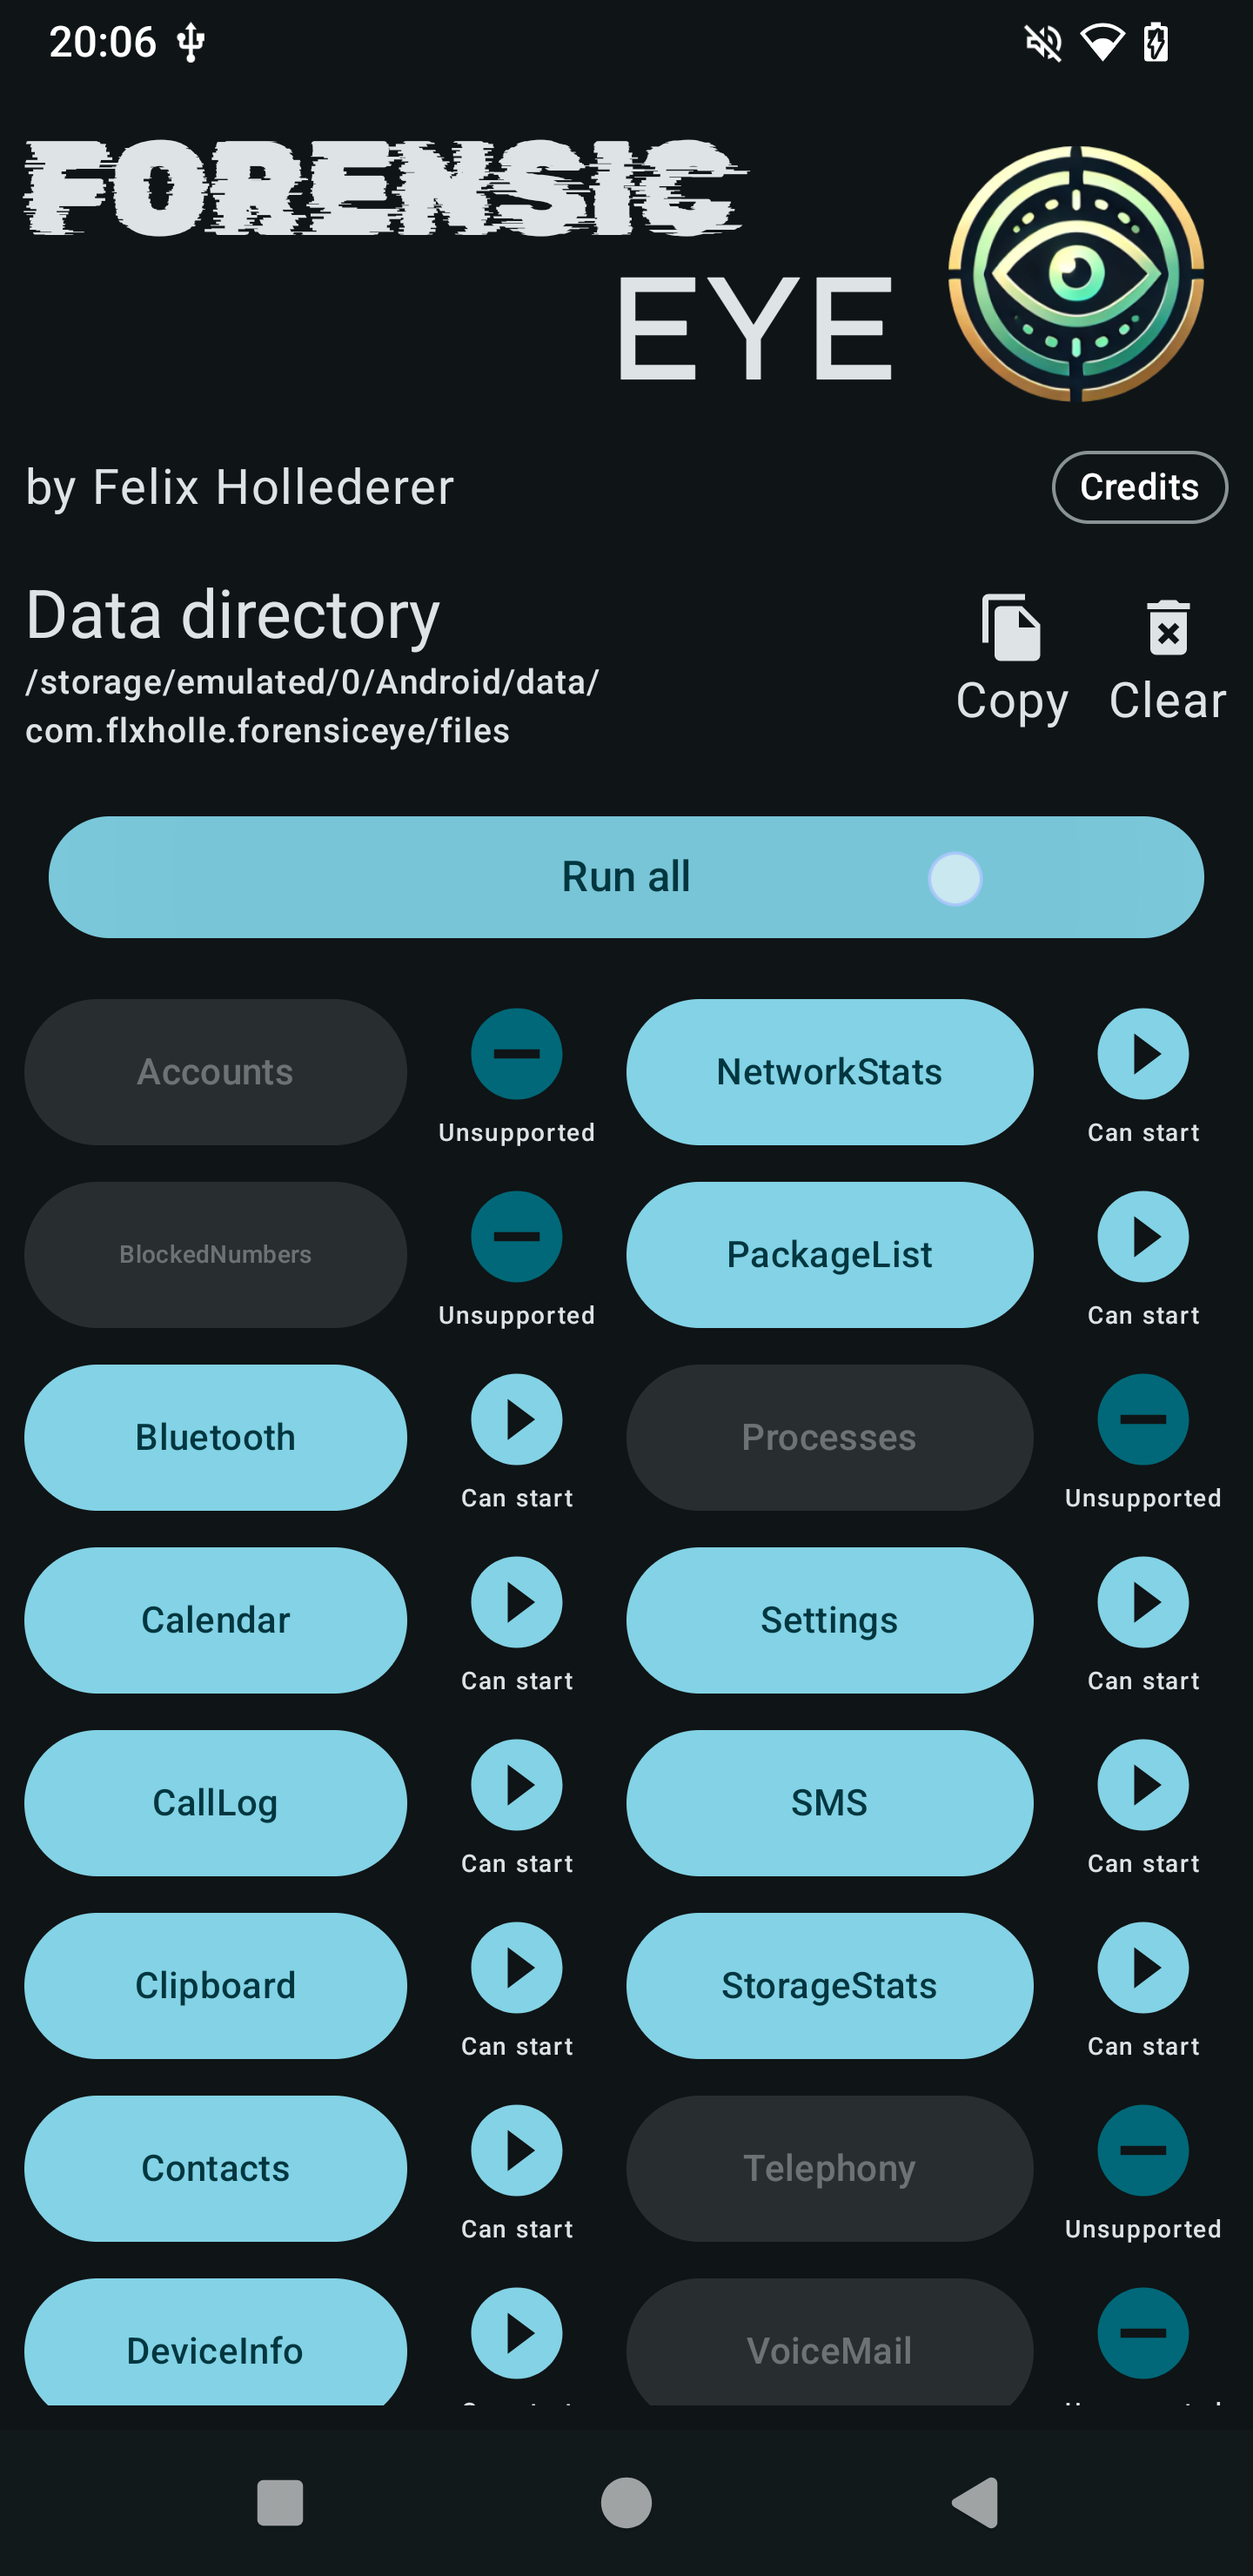
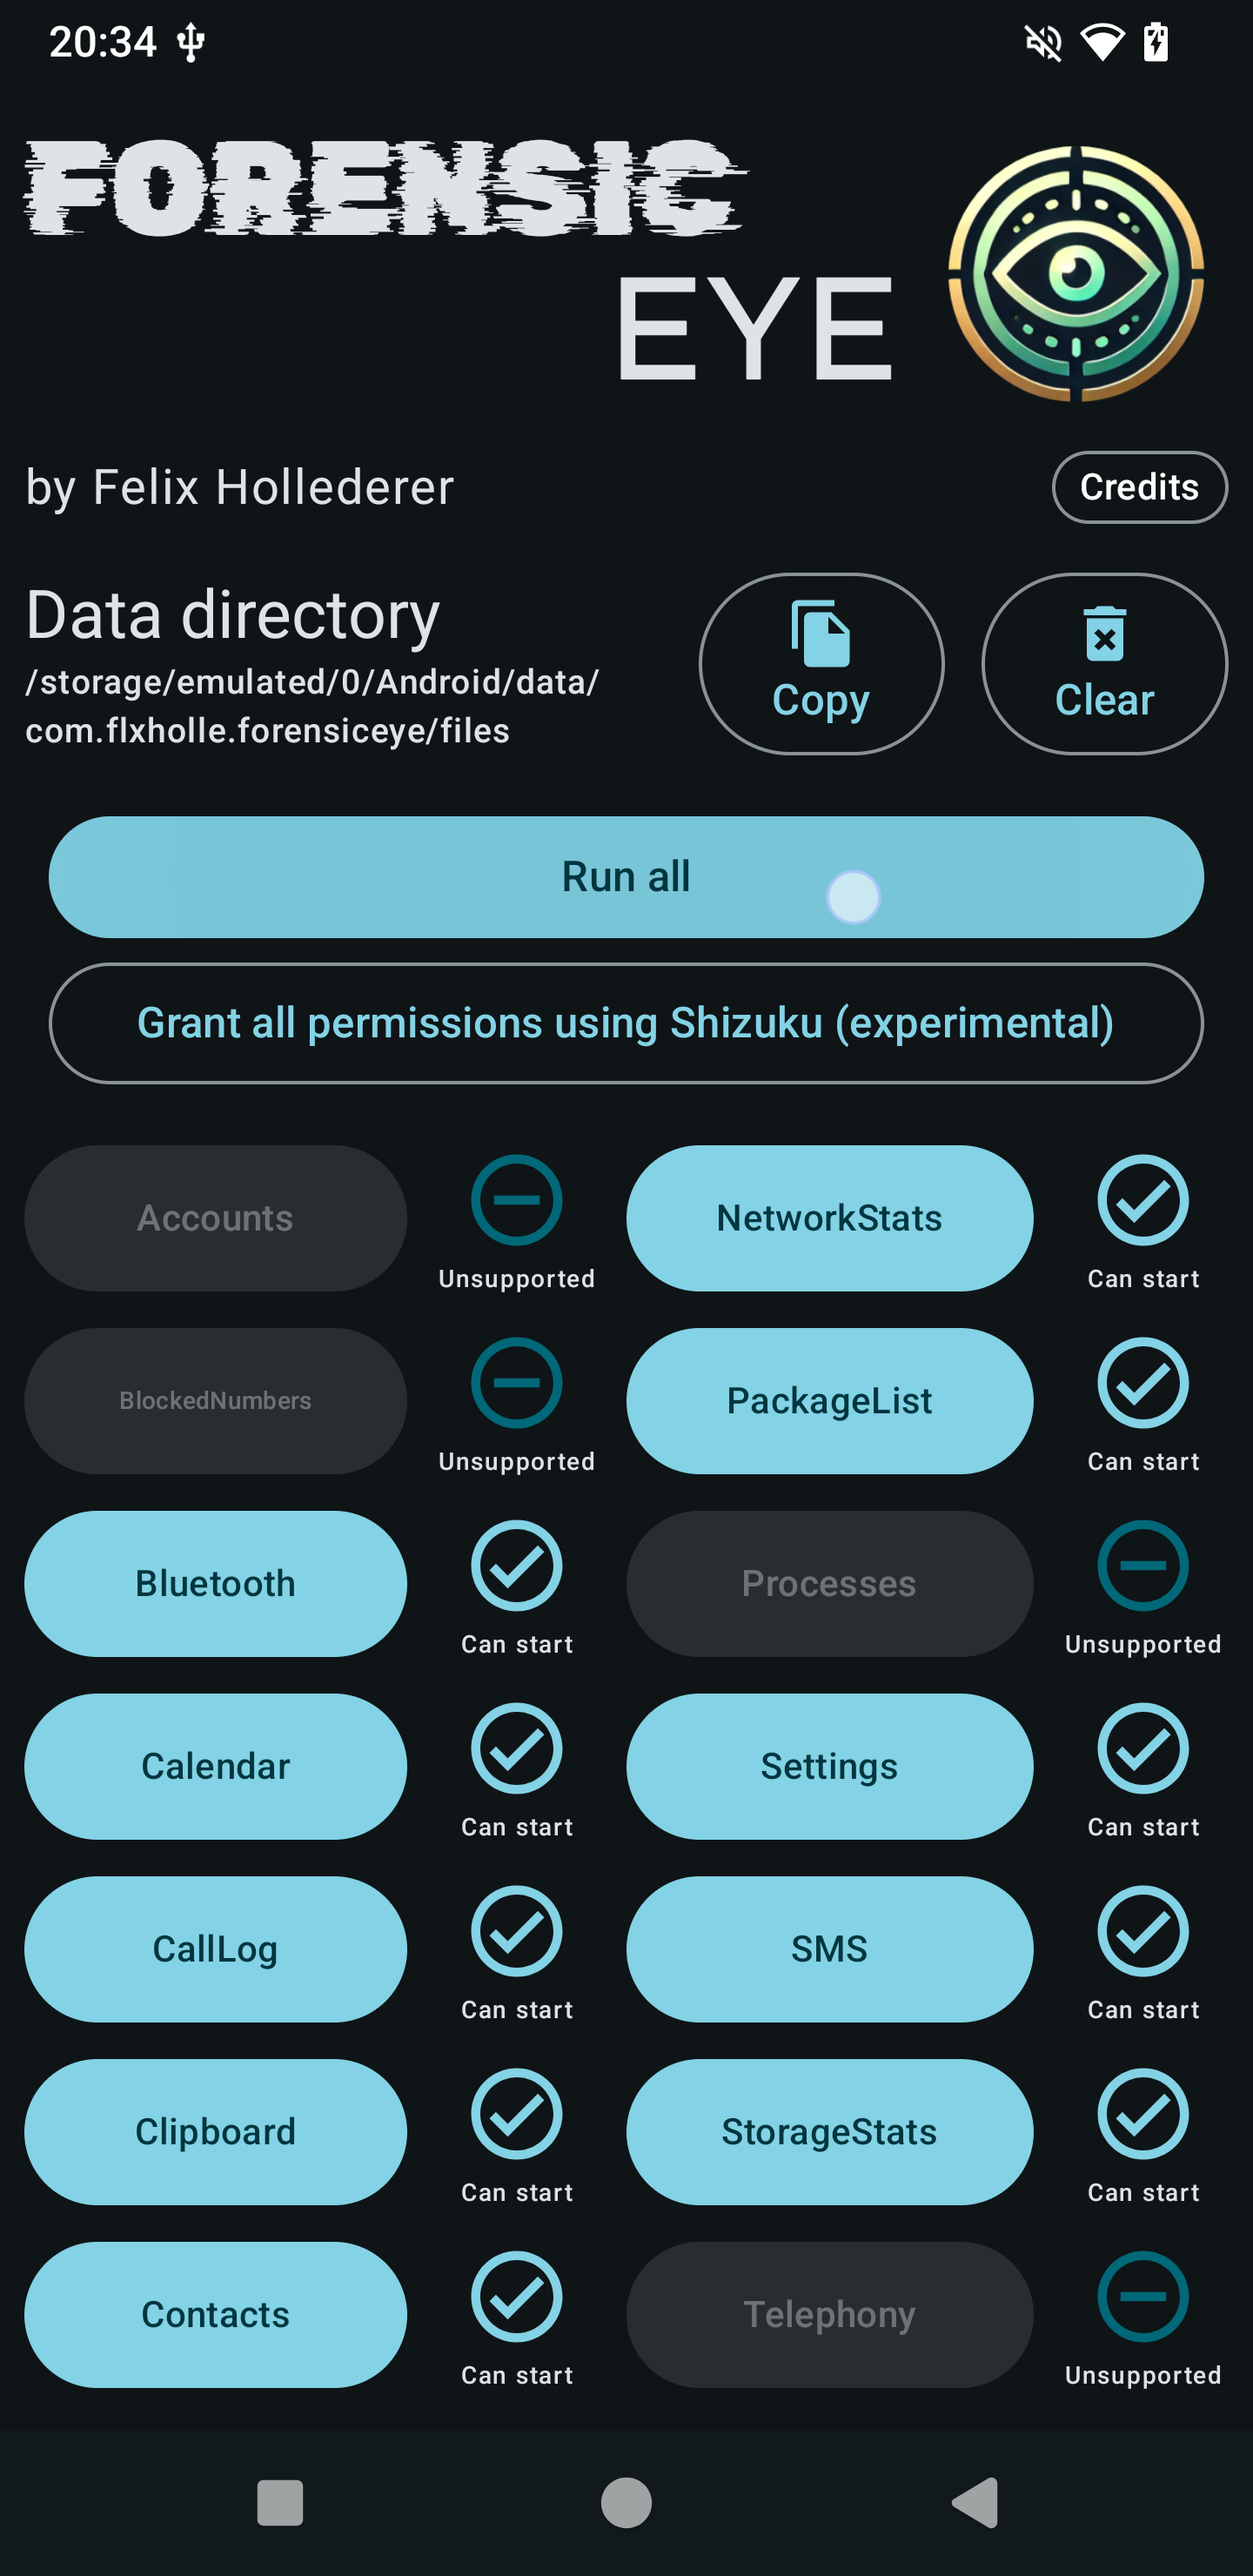
change status indicators for better UI

diff --git a/app/src/main/java/com/flxholle/forensiceye/MainActivity.kt b/app/src/main/java/com/flxholle/forensiceye/MainActivity.kt
@@ -14,7 +14,6 @@ import androidx.activity.ComponentActivity
 import androidx.activity.compose.setContent
 import androidx.activity.enableEdgeToEdge
 import androidx.activity.result.contract.ActivityResultContracts
-import androidx.compose.foundation.clickable
 import androidx.compose.foundation.layout.Arrangement
 import androidx.compose.foundation.layout.Column
 import androidx.compose.foundation.layout.Row
@@ -550,23 +549,16 @@ class MainActivity : ComponentActivity() {
             when (state.value) {
                 STATE.DISABLED, STATE.UNINIT -> {
                     StatusColumn(
-                        iconId = R.drawable.baseline_remove_circle_24,
+                        iconId = R.drawable.outline_remove_circle_outline_24,
                         tint = MaterialTheme.colorScheme.inversePrimary,
                         text = stringResource(R.string.unsupported),
-                        modifier = Modifier.clickable {
-                            Toast.makeText(
-                                context,
-                                getString(R.string.this_action_is_not_supported_on_this_device),
-                                Toast.LENGTH_LONG
-                            ).show()
-                        },
                         background = MaterialTheme.colorScheme.inverseSurface
                     )
                 }
 
                 STATE.START -> {
                     StatusColumn(
-                        iconId = R.drawable.baseline_play_circle_filled_24,
+                        iconId = R.drawable.outline_check_circle_outline_24,
                         tint = MaterialTheme.colorScheme.primary,
                         text = stringResource(R.string.can_start)
                     )
@@ -574,7 +566,7 @@ class MainActivity : ComponentActivity() {
 
                 STATE.PERMISSIONS -> {
                     StatusColumn(
-                        iconId = R.drawable.baseline_error_24,
+                        iconId = R.drawable.outline_error_24,
                         tint = MaterialTheme.colorScheme.secondary,
                         text = stringResource(R.string.permission_needed)
                     )
@@ -625,40 +617,39 @@ class MainActivity : ComponentActivity() {
                     style = MaterialTheme.typography.labelSmall
                 )
             }
-            ActionIcon(
-                R.drawable.baseline_file_copy_24,
-                stringResource(R.string.copy_data_directory),
-                stringResource(R.string.copy),
-                modifier = Modifier
-                    .padding(start = 12.dp)
-                    .clickable {
-                        openDocumentTreeLauncher.launch(null)
-                    }
-            )
-            ActionIcon(
-                R.drawable.baseline_delete_forever_24,
-                stringResource(R.string.delete_data_directory),
-                stringResource(R.string.delete),
-                modifier = Modifier
-                    .padding(start = 12.dp)
-                    .clickable {
-                        val dir = File(dataDirectory)
-                        if (dir.exists() && dir.isDirectory) {
-                            dir.deleteRecursively()
-                            Toast.makeText(
-                                context,
-                                getString(R.string.data_directory_cleared), Toast.LENGTH_SHORT
-                            )
-                                .show()
-                        } else {
-                            Toast.makeText(
-                                context,
-                                getString(R.string.data_directory_not_found), Toast.LENGTH_SHORT
-                            )
-                                .show()
-                        }
-                    }
-            )
+            OutlinedButton(
+                { openDocumentTreeLauncher.launch(null) },
+                Modifier.padding(start = 12.dp)
+            ) {
+                ActionIcon(
+                    R.drawable.baseline_file_copy_24,
+                    stringResource(R.string.copy_data_directory),
+                    stringResource(R.string.copy),
+                )
+            }
+            OutlinedButton({
+                val dir = File(dataDirectory)
+                if (dir.exists() && dir.isDirectory) {
+                    dir.deleteRecursively()
+                    Toast.makeText(
+                        context,
+                        getString(R.string.data_directory_cleared), Toast.LENGTH_SHORT
+                    )
+                        .show()
+                } else {
+                    Toast.makeText(
+                        context,
+                        getString(R.string.data_directory_not_found), Toast.LENGTH_SHORT
+                    )
+                        .show()
+                }
+            }, Modifier.padding(start = 12.dp)) {
+                ActionIcon(
+                    R.drawable.baseline_delete_forever_24,
+                    stringResource(R.string.delete_data_directory),
+                    stringResource(R.string.delete),
+                )
+            }
         }
     }
 

diff --git a/app/src/main/java/com/flxholle/forensiceye/AutoRunActivity.kt b/app/src/main/java/com/flxholle/forensiceye/AutoRunActivity.kt
@@ -5,11 +5,9 @@ import android.graphics.Bitmap
 import android.net.Uri
 import android.os.Bundle
 import android.util.Log
-import android.widget.Toast
 import androidx.activity.ComponentActivity
 import androidx.activity.compose.setContent
 import androidx.activity.enableEdgeToEdge
-import androidx.compose.foundation.clickable
 import androidx.compose.foundation.layout.Arrangement
 import androidx.compose.foundation.layout.Column
 import androidx.compose.foundation.layout.Row
@@ -287,23 +285,16 @@ class AutoRunActivity : ComponentActivity() {
             when (state) {
                 STATE.DISABLED, STATE.UNINIT -> {
                     StatusColumn(
-                        iconId = R.drawable.baseline_remove_circle_24,
+                        iconId = R.drawable.outline_remove_circle_outline_24,
                         tint = MaterialTheme.colorScheme.inversePrimary,
                         text = "",
-                        modifier = Modifier.clickable {
-                            Toast.makeText(
-                                context,
-                                getString(R.string.this_action_is_not_supported_on_this_device),
-                                Toast.LENGTH_LONG
-                            ).show()
-                        },
                         background = MaterialTheme.colorScheme.inverseSurface
                     )
                 }
 
                 STATE.START -> {
                     StatusColumn(
-                        iconId = R.drawable.baseline_play_circle_filled_24,
+                        iconId = R.drawable.outline_check_circle_outline_24,
                         tint = MaterialTheme.colorScheme.primary,
                         text = ""
                     )
@@ -311,7 +302,7 @@ class AutoRunActivity : ComponentActivity() {
 
                 STATE.PERMISSIONS -> {
                     StatusColumn(
-                        iconId = R.drawable.baseline_error_24,
+                        iconId = R.drawable.outline_error_24,
                         tint = MaterialTheme.colorScheme.secondary,
                         text = ""
                     )

diff --git a/README.md b/README.md
@@ -54,6 +54,7 @@ data extraction by non-expert users without the need for additional hardware.
     - Calls
     - Calendars
     - Health data
+  - Usage Statistics
   - Many more...
 - **Modular Architecture**: Supports extensibility and maintainability.
 - **Auto-Run from PC**: Ability to be launched automatically using a script for streamlined data
@@ -66,6 +67,9 @@ data extraction by non-expert users without the need for additional hardware.
 - **Fragmented Environment**: Challenges posed by Android’s fragmented and evolving environment,
   including undocumented features and unstable APIs.
 - **Manual Validation**: The need for manual validation due to the evolving nature of Android APIs.
+- **Usage Statistics Source**: The usage statistics data source relies on GPLv3 code
+  from [UsageDirect](https://codeberg.org/fynngodau/usageDirect) and is available in
+  a [GPLv3 licensed branch](https://github.com/flxholle/ForensicEye/tree/usage-stats-gpl)
 
 ### Built With
 
@@ -83,7 +87,8 @@ data extraction by non-expert users without the need for additional hardware.
    the [releases page](https://github.com/flxholle/ForensicEye/releases/latest) or use the
    `auto_run.sh` script.
 2. Open the app and grant the necessary permissions, either by clicking "Grant all permissions" or
-   clicking selected data source buttons with their names on it.
+   clicking selected data source buttons with their names on it. If `Shizuku` is installed and
+   running all permissions can be granted at once.
 3. The icon indicator next to the data source button can have the following states:
 
 - Unsupported: The data source is not supported on the current device or Android version.
@@ -95,12 +100,7 @@ data extraction by non-expert users without the need for additional hardware.
 3. Click on _Copy_ to export the data to the device's storage.
 4. Access the exported data in the selected folder on your device.
 
-<img src="Screenshots/1.png" alt="Screenshot 1" width="200">
-<img src="Screenshots/2.png" alt="Screenshot 2" width="200">
-<img src="Screenshots/3.png" alt="Screenshot 3" width="200">
-<img src="Screenshots/4.png" alt="Screenshot 4" width="200">
-<img src="Screenshots/5.png" alt="Screenshot 5" width="200">
-<img src="Screenshots/6.png" alt="Screenshot 6" width="200">
+<img src="Screenshots/1.png" alt="Screenshot 1" width="200"><img src="Screenshots/2.png" alt="Screenshot 2" width="200"><img src="Screenshots/3.png" alt="Screenshot 3" width="200"><img src="Screenshots/4.png" alt="Screenshot 4" width="200"><img src="Screenshots/5.png" alt="Screenshot 5" width="200"><img src="Screenshots/6.png" alt="Screenshot 6" width="200">
 
 ## Roadmap
 
